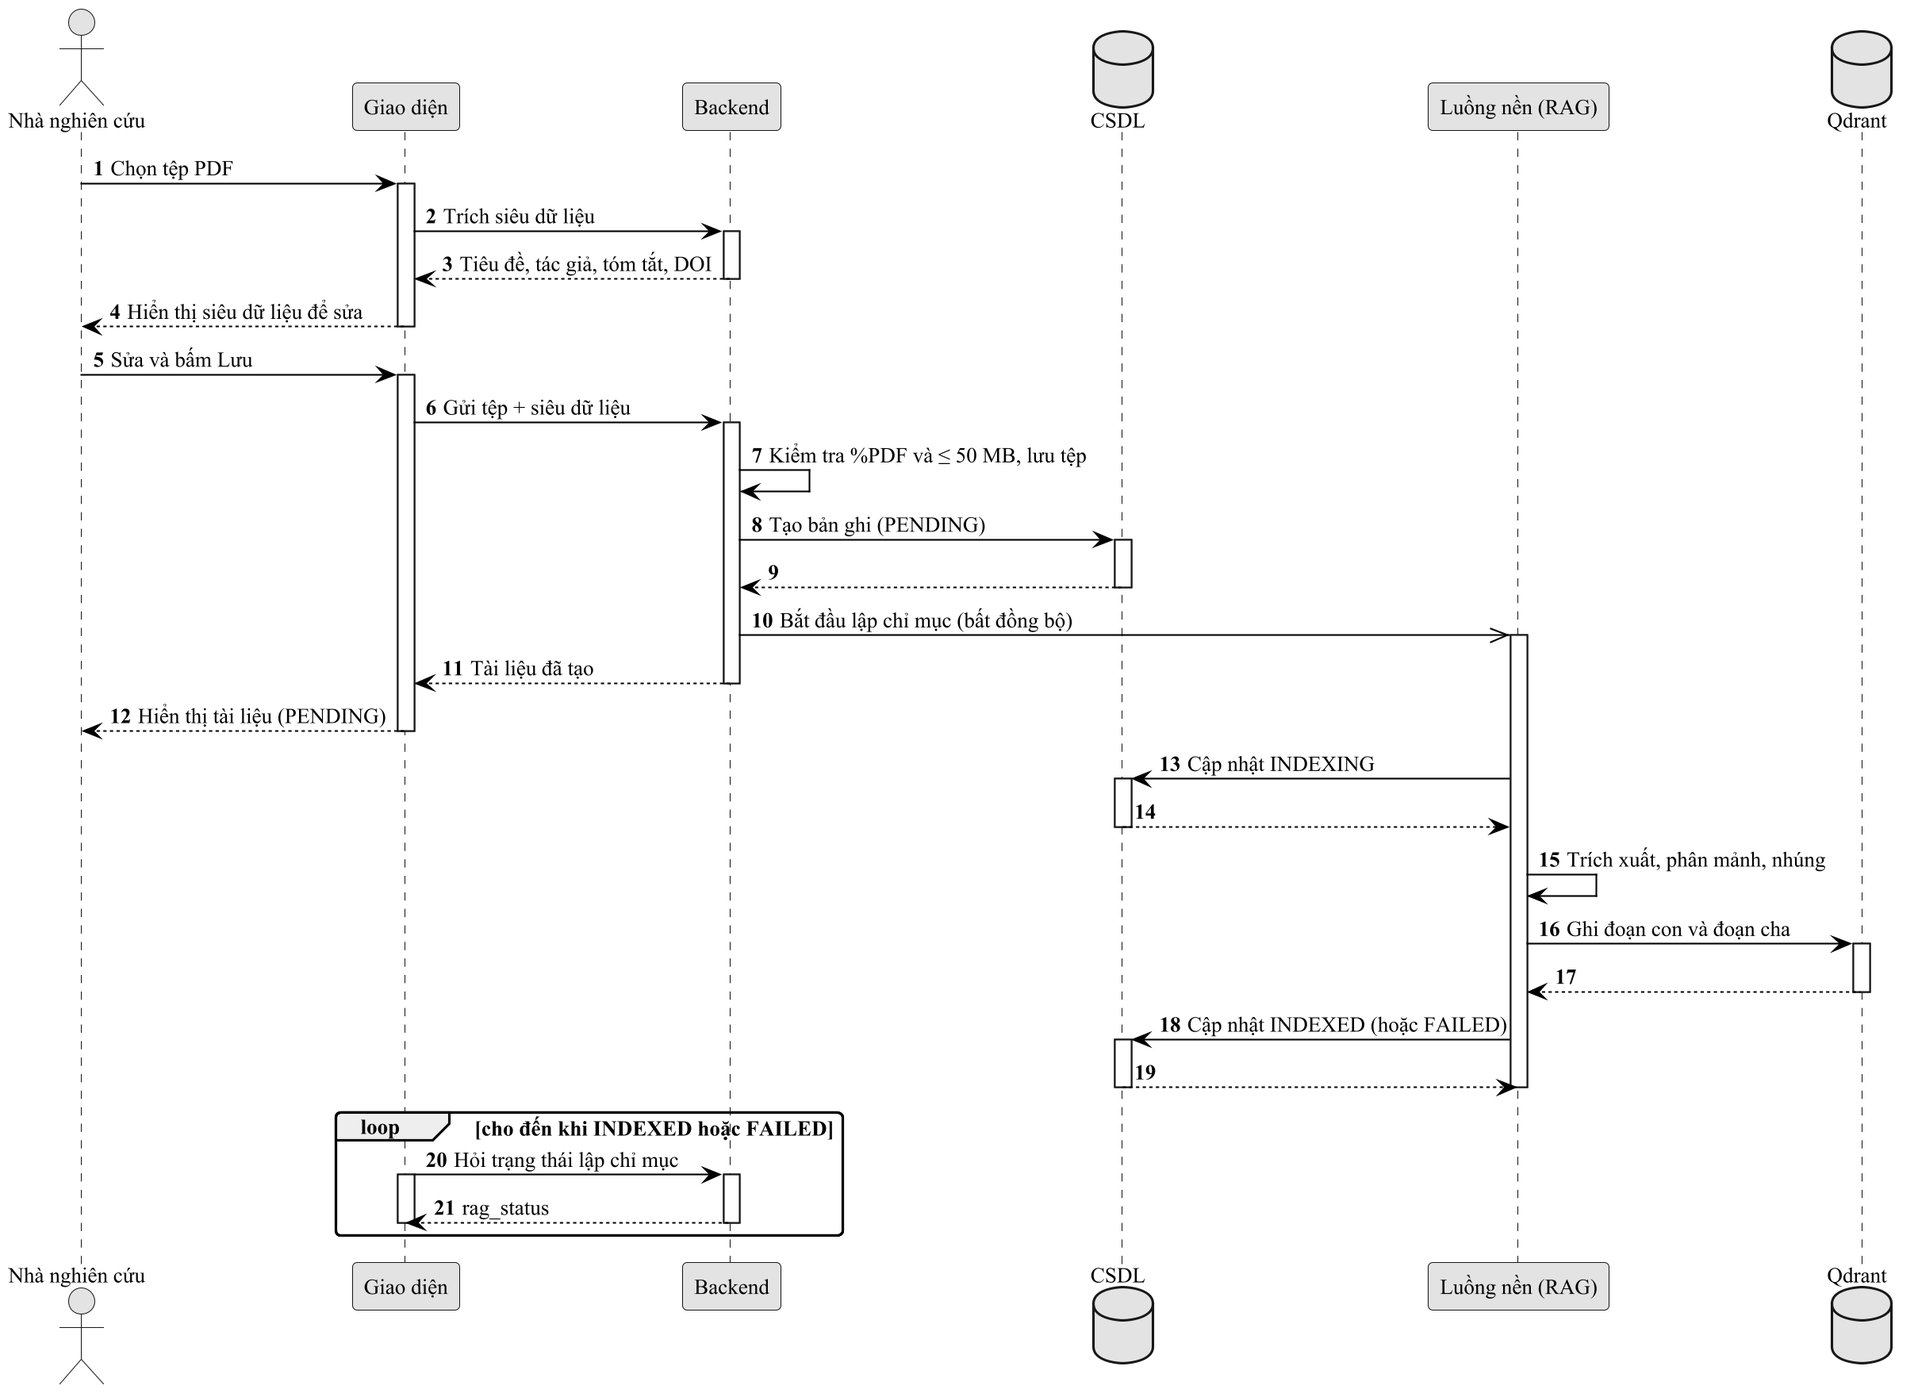
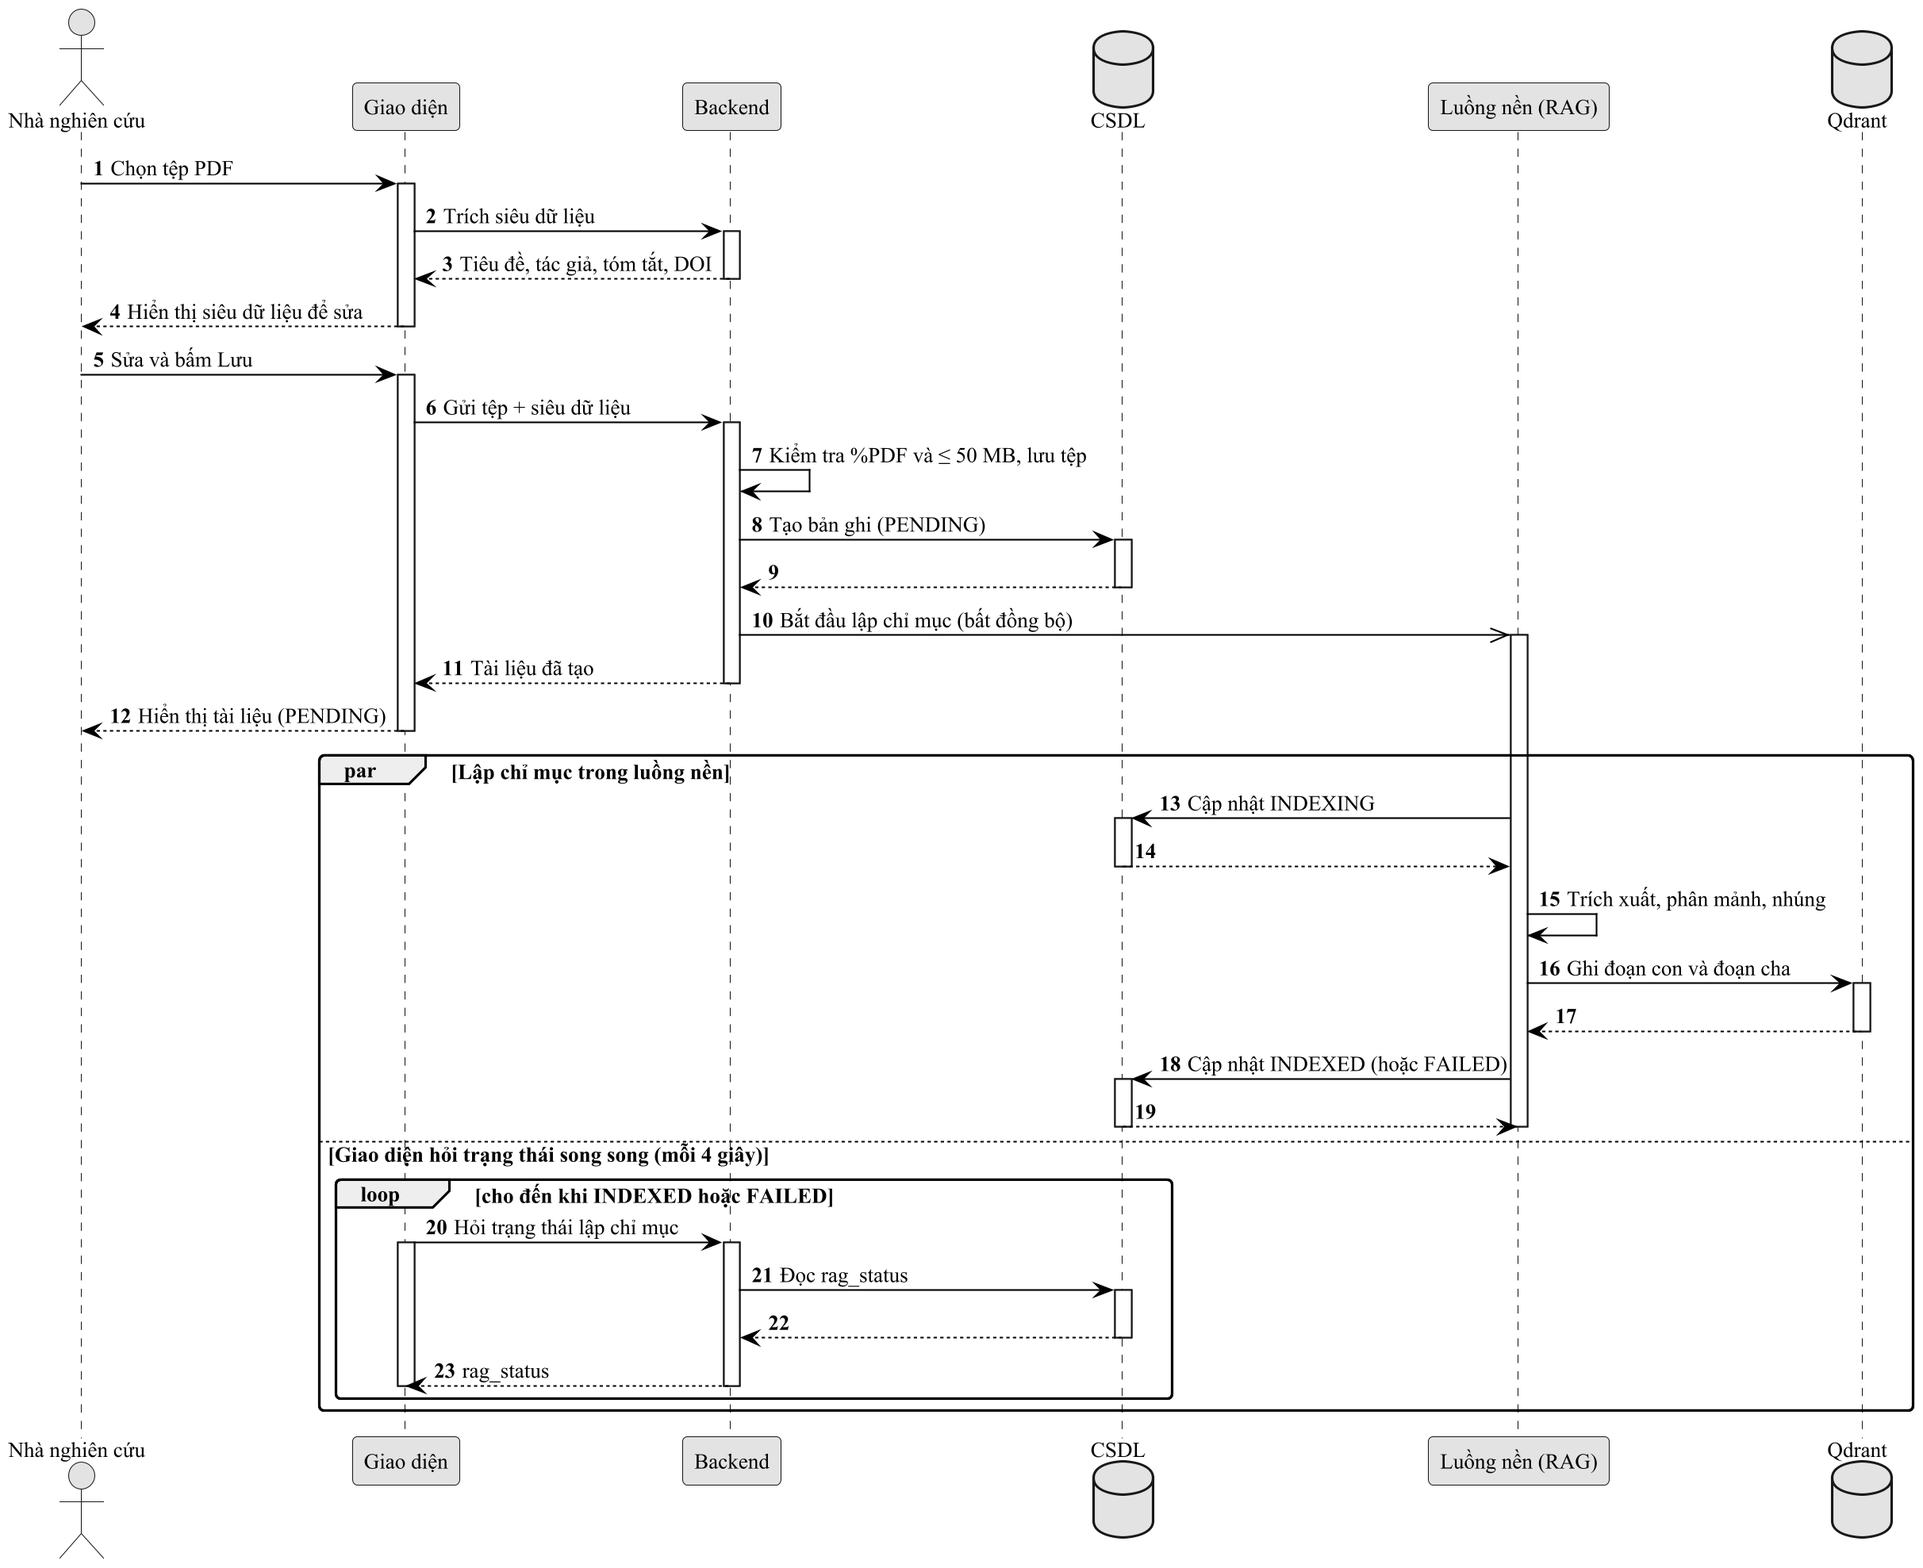
Kaggle server fixes, slide outline and figures: parallel status polling in the upload sequence, slide layout of the question flow, 'context' labels in the Phase 4 charts

diff --git a/eval/scripts/make_thesis_figures.py b/eval/scripts/make_thesis_figures.py
@@ -260,9 +260,9 @@ def fig_human():
 P4 = PH / "phase_4_generation/artifacts/summary.json"
 P4_MODELS = [("llama3.2:3b", "llama3.2:3b"), ("qwen2.5:1.5b", "qwen2.5:1.5b"), ("phi4-mini", "phi4-mini"),
              ("qwen3:4b-instruct-2507-q4_K_M", "qwen3:4b"), ("gemma3:4b", "gemma3:4b")]
-P4_PANELS = [("c_ret", "gold", "C-RET, bằng chứng chuẩn"), ("c_ret", "retrieved_gemma_dense", "C-RET, ngữ cảnh truy xuất"),
-             ("peerqa_pdf", "gold", "PeerQA, bằng chứng chuẩn"),
-             ("peerqa_pdf", "retrieved_gemma_dense", "PeerQA, ngữ cảnh truy xuất")]
+P4_PANELS = [("c_ret", "gold", "C-RET, context chuẩn"), ("c_ret", "retrieved_gemma_dense", "C-RET, context từ truy xuất"),
+             ("peerqa_pdf", "gold", "PeerQA, context chuẩn"),
+             ("peerqa_pdf", "retrieved_gemma_dense", "PeerQA, context từ truy xuất")]
 P4_CATS = [("Có căn cứ", ["SUPPORTED"]), ("Đúng một phần", ["MISSING_INFO - PARTIAL"]),
            ("Không căn cứ / mâu thuẫn", ["UNSUPPORTED", "CONTRADICTED"]),
            ("Từ chối hợp lệ", ["REFUSAL_VALID"]), ("Từ chối không cần thiết", ["MISSING_INFO - UNJUSTIFIED_REFUSAL"])]
@@ -312,8 +312,8 @@ def fig_phase4_gap():
             t = [s[cohort]["retrieved_gemma_dense"][m][key] for m, _ in P4_MODELS]
             for yi, a, b in zip(y, g, t):
                 ax.plot([a, b], [yi, yi], color=GREY, linewidth=2, zorder=1)
-            ax.scatter(g, y, s=46, color=C[0], edgecolor=SURF, linewidth=2, zorder=3, label="Bằng chứng chuẩn")
-            ax.scatter(t, y, s=46, color=C[1], edgecolor=SURF, linewidth=2, zorder=3, label="Ngữ cảnh truy xuất")
+            ax.scatter(g, y, s=46, color=C[0], edgecolor=SURF, linewidth=2, zorder=3, label="Context chuẩn")
+            ax.scatter(t, y, s=46, color=C[1], edgecolor=SURF, linewidth=2, zorder=3, label="Context từ truy xuất")
             ax.set_yticks(y, [nm for _, nm in P4_MODELS] if c == 0 else [""] * len(y))
             ax.tick_params(axis="y", length=0)
             ax.grid(axis="y", visible=False)

diff --git a/THESIS/SLIDE_OUTLINE.md b/THESIS/SLIDE_OUTLINE.md
@@ -1,0 +1,162 @@
+# Khung slide bảo vệ đồ án (23 slide, khoảng 20 phút)
+
+Đề tài: **Xây dựng hệ thống quản lý tài liệu nghiên cứu khoa học tích hợp trợ lý AI sử dụng RAG**
+
+Mỗi slide gồm: nội dung trên slide (ngắn), hình hoặc bảng nên dùng (tệp trong `reports/thesis_figures/`), và lời nói gợi ý. Số liệu lấy từ `eval/README.md` và Chương 5; không thêm số ngoài các nguồn này.
+
+Phân bổ thời gian gợi ý: mở đầu 2 phút, hệ thống 6 phút, demo 4 phút, thực nghiệm 6 phút, kết luận 2 phút.
+
+---
+
+## Phần 1. Mở đầu (slide 1–4)
+
+### Slide 1. Tiêu đề
+- Tên đề tài, khoa, chuyên ngành, sinh viên thực hiện, giảng viên hướng dẫn.
+- **Lời nói:** giới thiệu bản thân, tên đề tài, nói thẳng một câu: "Nhóm xây dựng một ứng dụng kiểu Zotero có trợ lý AI trả lời câu hỏi về bài báo và chỉ ra đoạn trích dẫn trên trang PDF."
+
+### Slide 2. Vấn đề
+- Bài báo khoa học dài 8–30 trang, nhiều cột, bảng, công thức; tìm một chi tiết phải đọc quét thủ công.
+- Zotero, Mendeley, EndNote quản lý thư viện tốt nhưng không hiểu nội dung.
+- Dịch vụ AI đám mây gặp ba rào cản: rò rỉ bản thảo chưa công bố, ảo giác (bịa trích dẫn), chi phí API hoặc GPU.
+- **Lời nói:** nêu một câu hỏi ví dụ ("Hàm mất mát nào được dùng?") để hội đồng hình dung nhu cầu.
+
+### Slide 3. Mục tiêu và phạm vi
+- Mục tiêu 1: ứng dụng quản lý tài liệu bố cục 3 cột, đọc PDF và chú thích, chia sẻ.
+- Mục tiêu 2: trợ lý AI hỏi đáp, tóm tắt, **từ chối khi không đủ căn cứ**, trích dẫn tới trang.
+- Mục tiêu 3: đánh giá đường ống RAG theo bốn giai đoạn và chọn phương pháp bằng kết quả, lý thuyết và chi phí.
+- Phạm vi: **bản thử nghiệm khái niệm chạy cục bộ trên một máy**, không phục vụ nhiều người dùng.
+- **Lời nói:** nhấn mạnh phạm vi ngay từ đầu để tránh câu hỏi về khả năng mở rộng.
+
+### Slide 4. RAG là gì (cơ sở lý thuyết)
+- Sơ đồ: PDF → trích xuất → phân mảnh → nhúng → truy xuất → ghép ngữ cảnh → LLM trả lời.
+- Ý chính: LLM chỉ trả lời từ đoạn được truy xuất, nên trả lời có nguồn và giảm ảo giác.
+- **Hình:** vẽ lại sơ đồ đường ống (hoặc `fig4_03_rag_activity.png`).
+- **Lời nói:** giới thiệu sơ đồ này là "bản đồ" cho cả phần thực nghiệm phía sau, mỗi khâu là một giai đoạn đánh giá.
+
+---
+
+## Phần 2. Hệ thống (slide 5–10)
+
+### Slide 5. Yêu cầu và use case
+- Sáu use case chính: đăng nhập, tải PDF và trích metadata, nhập bằng DOI, đọc và chú thích, chia sẻ, hỏi đáp AI có trích dẫn.
+- 12 yêu cầu chức năng, 6 yêu cầu phi chức năng (chạy trên CPU 16 GB RAM, truy vết nguồn, bảo mật).
+- **Hình:** `fig4_01_use_case.png`.
+
+### Slide 6. Kiến trúc
+- React 19 + TypeScript (giao diện) → REST/JWT → Django 5 + DRF, PostgreSQL 16 → đường ống RAG trong cùng tiến trình: Qdrant nhúng, Ollama.
+- Chia sẻ kiểu Google Drive (chủ sở hữu, VIEW, COMMENT, EDIT); PDF phục vụ qua API có kiểm tra quyền.
+- **Hình:** `fig4_02_components.png`.
+
+### Slide 7. Triển khai
+- Mọi thành phần chạy trên một máy; khi demo, mô hình sinh chạy trên GPU của Kaggle qua đường hầm ngrok, máy cục bộ dùng `llama3.2:3b` làm dự phòng.
+- Truy xuất luôn chạy trên CPU cục bộ; chỉ bước sinh câu trả lời chạy trên Kaggle.
+- **Hình:** `fig4_04_deployment.png`.
+
+### Slide 8. Lập chỉ mục một tài liệu
+- Tải lên → hàng đợi nền → PyMuPDF tách mục theo đề mục → phân mảnh phân cấp (đoạn con 200 token, chồng 40; mục cha là đơn vị ngữ cảnh) → embeddinggemma-300m → Qdrant (vector con + bộ sưu tập mục cha).
+- Trạng thái: PENDING → INDEXING → INDEXED / FAILED, có khôi phục khi khởi động lại.
+- **Hình:** `fig4_07_upload_sequence.png` hoặc `fig4_08_index_state.png`.
+
+### Slide 9. Trả lời một câu hỏi
+- Ngưỡng liên quan: câu hỏi lạc đề bị từ chối ngay, không gọi LLM.
+- Truy xuất `convex`: 0,7 × điểm dense + 0,3 × điểm BM25 → mở rộng sang mục cha trong ngân sách 1.600 token (tối đa 5 đơn vị) → LLM trả lời kèm `[Page N]`.
+- Trích dẫn trỏ tới đoạn con khớp nhất với câu trả lời.
+- **Hình:** `fig4_09_question_activity_slide.png` (bản nằm ngang cho slide; bản dọc trong luận văn là `fig4_09_question_activity.png`).
+
+### Slide 10. Giao diện
+- Bố cục 3 cột kiểu Zotero: thư mục và thẻ, bảng tài liệu, bảng siêu dữ liệu; tab kiểu trình duyệt; phím tắt.
+- Trình đọc PDF: tô sáng, ghi chú; bảng trợ lý AI cạnh tài liệu.
+- **Hình:** ảnh chụp giao diện thật (lấy từ Chương 4 bản Word).
+
+---
+
+## Phần 3. Demo (slide 11)
+
+### Slide 11. Demo trực tiếp
+- Kịch bản theo `demo/DEMO_CHECKLIST.md`: đăng nhập → mở bài đã lập chỉ mục sẵn → hỏi 2–3 câu → bấm chip trích dẫn để nhảy tới đoạn được tô sáng → hỏi một câu lạc đề để thấy từ chối.
+- **Chuẩn bị:** tải và lập chỉ mục bài demo trước (lập chỉ mục trên CPU mất khoảng 2 phút cho bài Attention); bật notebook Kaggle và khởi động trước một câu.
+- **Phương án dự phòng:** nếu Kaggle không phản hồi, ứng dụng tự chuyển sang `llama3.2:3b` cục bộ (chậm hơn, khoảng 30–60 giây mỗi câu); có sẵn video quay trước.
+
+---
+
+## Phần 4. Thực nghiệm (slide 12–20)
+
+### Slide 12. Thiết kế thực nghiệm
+- Bốn giai đoạn nối tiếp, mỗi giai đoạn bắt đầu từ lựa chọn của giai đoạn trước: (1) trích xuất, (2) phân mảnh × mô hình nhúng, (3) BM25, kết hợp và xếp hạng lại, (4) mô hình sinh.
+- Dữ liệu: OHR-Bench (706 tài liệu, 6.916 câu hỏi), QASPER/C-RET (335 bài, 567 câu), PeerQA (107 bài, 288 câu).
+- Chỉ số mô tả (trung bình, chênh lệch, chi phí); không kiểm định thống kê.
+- **Lời nói:** nói rõ phương pháp được chọn và đánh giá trên cùng dữ liệu, nên đây không phải tập kiểm tra độc lập.
+
+### Slide 13. Giai đoạn 1: trích xuất PDF
+- Độ phủ bằng chứng: PyMuPDF 0,747, pypdf 0,726, pdfminer.six 0,717, pdfplumber 0,705, GROBID 0,494.
+- Tốc độ: PyMuPDF khoảng 2,5 ms/trang, GROBID 143 ms/trang.
+- Lý thuyết dự đoán GROBID tốt trên bài báo khoa học, nhưng nó thấp nhất, kể cả trên tập con học thuật: GROBID bỏ hoặc tách nhiều nội dung ngoài thân bài (bảng, công thức), nơi OHR-Bench đặt nhiều câu hỏi (giải thích hợp lý, chưa kiểm chứng riêng).
+- **Chọn:** PyMuPDF có nhận diện đề mục.
+- **Hình:** `fig5_2_extraction_ohr.png`.
+
+### Slide 14. Giai đoạn 2: phân mảnh × mô hình nhúng
+- 3 cách phân mảnh × 5 mô hình nhúng, nDCG@10.
+- Phân mảnh phân cấp tốt nhất với mọi mô hình: +0,06 đến +0,08 trên C-RET, +0,18 đến +0,24 trên PeerQA.
+- Với phân mảnh phân cấp, các mô hình nhúng chênh nhau ít (0,041 trên C-RET): **cách phân mảnh quan trọng hơn mô hình nhúng.**
+- Bất ngờ: phân mảnh theo đề mục không vượt phân mảnh kích thước cố định.
+- **Hình:** `fig5_3_retrieval_grid.png` (và `fig5_4_retrieval_grid_peerqa.png`).
+
+### Slide 15. Giai đoạn 3: BM25, kết hợp, xếp hạng lại
+- BM25 riêng: thấp hơn dense trên C-RET (0,646), ngang dense trên PeerQA (0,718), đúng như lý thuyết.
+- `convex` không bao giờ thấp hơn dense; `rrf` có lúc thấp hơn (gemma −0,013 trên C-RET).
+- Reranker bge-m3 cao nhất (đến 0,757) nhưng tốn khoảng 1,5–2 giây mỗi câu trên GPU.
+- **Hình:** `fig5_5_phase3_tradeoff.png`.
+
+### Slide 16. Lựa chọn truy xuất: embeddinggemma + convex
+- nDCG@10: C-RET 0,744, PeerQA 0,742 (+0,023 so với dense trên PeerQA), chỉ thêm khoảng 1 ms.
+- Phù hợp lý thuyết: từ khóa bổ sung tên riêng, số liệu, thuật ngữ hiếm và giảm phụ thuộc vào mô hình nhúng (Thakur và cộng sự, 2021; Bruch và cộng sự, 2023). Trọng số 0,3 cố định từ trước, không tinh chỉnh.
+- Không dùng reranker: lợi ích nhỏ so với chi phí, nhất là trên CPU nơi ứng dụng truy xuất.
+- **Lời nói:** đây là ví dụ cho nguyên tắc chọn bằng kết quả + lý thuyết + chi phí, không chỉ điểm cao nhất.
+
+### Slide 17. Giai đoạn 4: mô hình sinh, cách đánh giá
+- 5 mô hình chạy qua Ollama: llama3.2:3b, qwen2.5:1.5b, phi4-mini, qwen3:4b-instruct-2507, gemma3:4b.
+- Hai điều kiện: bằng chứng chuẩn (gold) và ngữ cảnh truy xuất; chênh lệch giữa hai là tổn thất do truy xuất.
+- Chỉ số: Token F1, tỷ lệ từ chối, nhãn căn cứ do Claude Opus 5.5 chấm (khớp người chấm 80/100 trên 6 nhãn, 93/100 trên 3 lớp); 18.700 câu trả lời.
+- **Lời nói:** Token F1 không phải độ đúng sự thật, nên cần thêm nhãn căn cứ.
+
+### Slide 18. Giai đoạn 4: kết quả
+- qwen3:4b có tỷ lệ câu trả lời có căn cứ cao nhất khi dùng ngữ cảnh truy xuất: 62,1% (C-RET), 34,8% (PeerQA); không có căn cứ chỉ 7,6% / 7,2%.
+- qwen2.5:1.5b có Token F1 cao nhất nhưng nhiều câu không có căn cứ nhất (23,6% / 50,8%): **F1 không phản ánh độ có căn cứ.**
+- gemma3:4b từ chối 64–86%; thử nới câu lệnh từ chối thì tỷ lệ giảm từ 72% xuống 52%.
+- **Hình:** `fig5_12_phase4_labels.png`, `fig5_13_phase4_gold_vs_retrieved.png`.
+
+### Slide 19. Lựa chọn mô hình sinh và chi phí
+- **Chọn:** qwen3:4b-instruct-2507 trên GPU Kaggle (P50 khoảng 2 giây).
+- Trên CPU cục bộ: qwen3:4b trung vị 56 giây, llama3.2:3b trung vị 34 giây (10 câu C-RET), nên llama3.2:3b là dự phòng cục bộ.
+- Lập chỉ mục bằng embeddinggemma trên CPU: khoảng 4,5 phút cho bài 149 đoạn con.
+
+### Slide 20. Ngưỡng từ chối trong ứng dụng
+- Hiệu chuẩn lại khi đổi sang embeddinggemma (điểm tương đồng thấp hơn e5 nhiều): ngưỡng 0,30.
+- Trên bộ câu viết tay (6 bài, không phải tập kiểm tra độc lập): cho qua 34/35 câu có đáp án, chỉ 1/90 câu lạc đề.
+- **Lời nói:** từ chối đúng lúc là một phần của "không bịa", liên hệ lại vấn đề ở slide 2.
+
+---
+
+## Phần 5. Kết luận (slide 21–23)
+
+### Slide 21. Kết quả đạt được
+- Ứng dụng hoàn chỉnh: thư viện, đọc PDF và chú thích, chia sẻ, trợ lý AI có trích dẫn tới trang, từ chối khi không đủ căn cứ; 277 kiểm thử backend.
+- Đường ống được chọn bằng thực nghiệm: PyMuPDF → phân mảnh phân cấp → embeddinggemma → convex → qwen3:4b (llama3.2:3b dự phòng).
+- Bài học: cách phân mảnh quan trọng hơn mô hình nhúng; Token F1 cần đi kèm đánh giá căn cứ.
+
+### Slide 22. Hạn chế và hướng phát triển
+- Hạn chế: chọn và đánh giá trên cùng dữ liệu (QASPER chỉ NLP/ML); giám khảo LLM chỉ kiểm chứng trên 100 câu của một người; CPU chậm; chỉ chạy trên một máy.
+- Hướng phát triển: hiệu chuẩn ngưỡng trên tập lớn hơn; mở rộng ngữ cảnh khi thiếu căn cứ; hỏi đáp nhiều tài liệu và OCR; lập chỉ mục hai giai đoạn (e5 nhanh trước, embeddinggemma sau); mô hình ứng dụng máy tính + máy chủ dùng chung.
+
+### Slide 23. Cảm ơn và hỏi đáp
+- Cảm ơn hội đồng và giảng viên hướng dẫn; mời câu hỏi.
+
+---
+
+## Câu hỏi hội đồng có thể hỏi (chuẩn bị trước)
+
+1. **Vì sao không dùng reranker khi nó cho điểm cao nhất?** Lợi ích 0,003 trên C-RET và khoảng 0,015 trên PeerQA so với convex, nhưng tốn khoảng 1,5–2 giây mỗi câu trên GPU, chậm hơn nhiều trên CPU (slide 15–16).
+2. **Kết quả có tổng quát hóa không?** Không chứng minh được: chọn và đánh giá trên cùng bài QASPER; PeerQA chỉ là kiểm tra nhỏ với kiểu câu hỏi khác.
+3. **Giám khảo LLM có đáng tin không?** Khớp người chấm 80/100 (6 nhãn), 93/100 (3 lớp); có xu hướng coi các câu từ chối ranh giới là từ chối không đáng.
+4. **Vì sao có "chạy cục bộ" mà demo lại dùng Kaggle?** Truy xuất và dữ liệu vẫn ở máy cục bộ; chỉ mô hình sinh chạy trên GPU để demo nhanh, và có llama3.2:3b dự phòng hoàn toàn cục bộ.
+5. **Câu hỏi tiếng Việt?** Câu lệnh yêu cầu trả lời theo ngôn ngữ của câu hỏi, nhưng các thực nghiệm chỉ dùng câu hỏi tiếng Anh.
